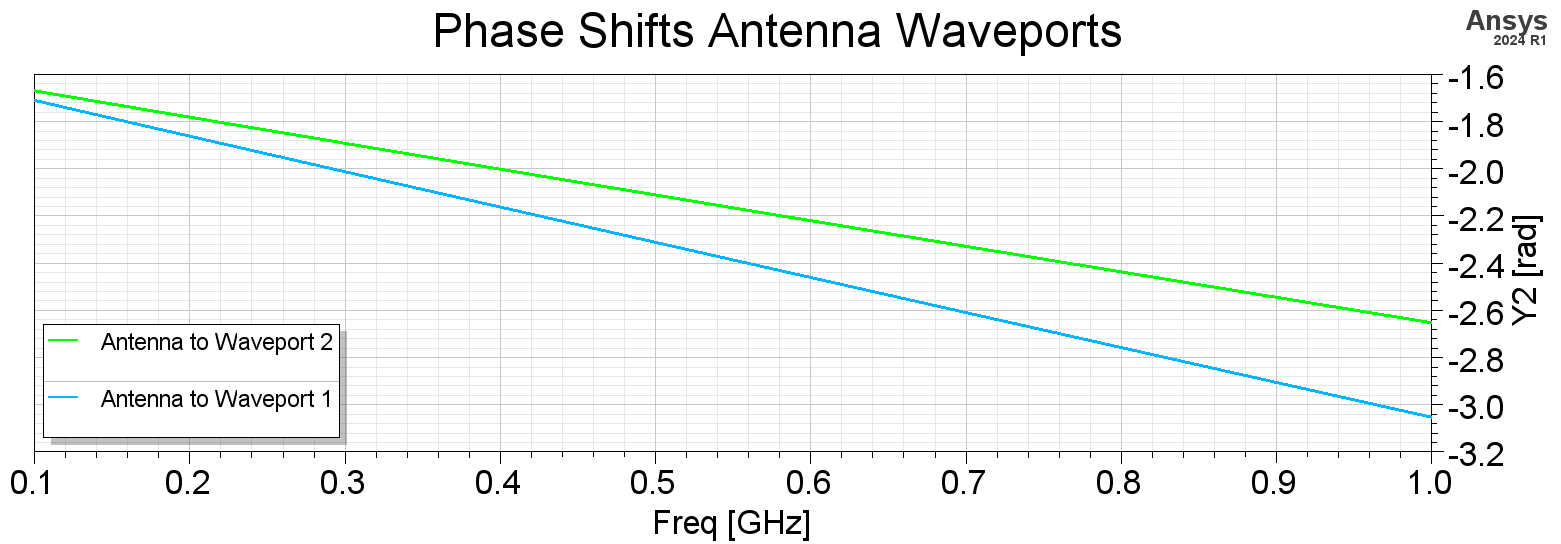
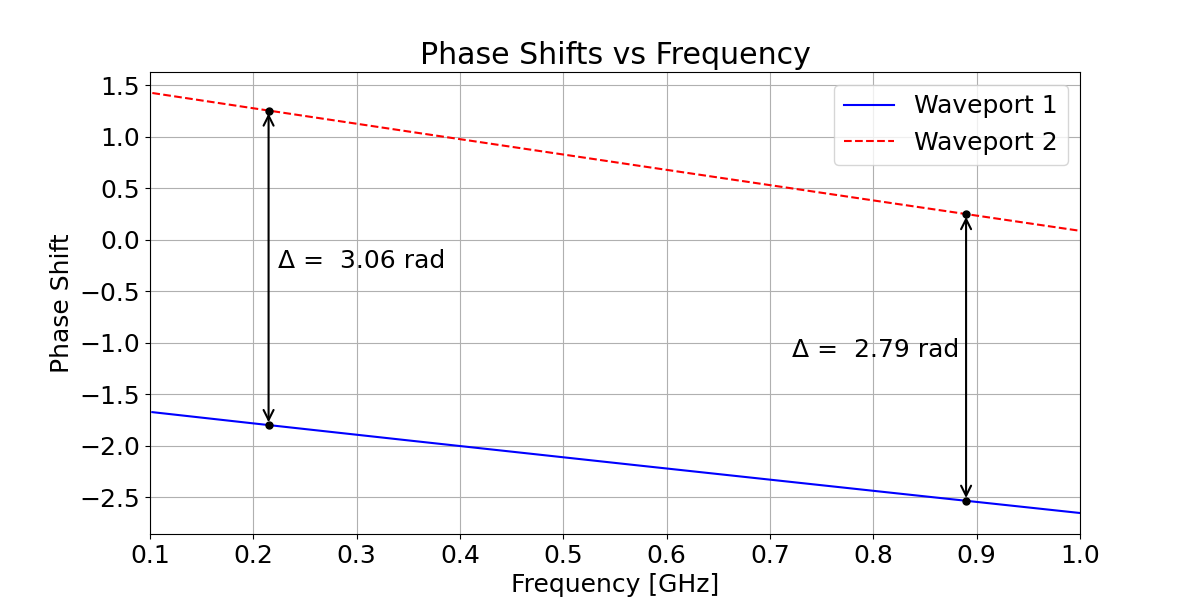
Finished documentation for CFM + Bug Fixing in Plots

Changed region(s): [[0.0, 0.0, 0.9867, 1.0], [0.925, 0.0312, 1.0, 0.0938], [0.0, 0.8438, 0.0308, 0.9062]]

diff --git a/Documentation/content/30_simulations/simulations.tex b/Documentation/content/30_simulations/simulations.tex
@@ -6,7 +6,7 @@
 
 
 
-The inverted F-antenna (IFA) is modeled in Ansys HFSS as shown in \autoref{fig:ifa}. Its material is copper. It is positioned at the center of the TEM cell, mounted at the top surface. The 5\,mm long wire points towards waveport 2. The excitation is a modal wave port. With a maximum dimension of 5\,mm, the antenna is electrically small for a frequency of up to 6\,GHz, at which it will be a tenth of the wavelength. In this simulation, the antenna is investigated for the frequency of 100\,MHz to 1\,GHz. The TEM cell has a width of 40\,mm and a height of 24\,mm. The goal is to find equivalent dipole moments. 
+The inverted F-antenna (IFA) is modeled in Ansys HFSS as shown in \autoref{fig:ifa}. Its material is copper. It is positioned at the center of the TEM cell, mounted at the top surface. The 5\,mm long wire points towards waveport 2. The excitation is a modal wave port. With a maximum dimension of 5\,mm, the antenna is electrically small for a frequency of up to 6\,GHz, at which it will be a tenth of the wavelength. In this simulation, the antenna is investigated for the frequency of 100\,MHz to 1\,GHz. The TEM cell has a width of 40\,mm and a height of 24\,mm and an impedance of $\sim50\,\Omega$. The goal is to find equivalent dipole moments of the antenna. 
 
 
 \begin{figure}[h]
@@ -16,23 +16,15 @@ The inverted F-antenna (IFA) is modeled in Ansys HFSS as shown in \autoref{fig:i
     \label{fig:ifa}
 \end{figure}
 
-The coupling between the antenna and the two ports of the TEM cell are described by S-parameters, specifically the forward transmission coefficients $S_{\mathrm{A1}}$ and $S_{\mathrm{A2}}$. \autoref{fig:antenna_waveport1_sparams} shows the magnitude of this coefficient, which is the same for the antenna to both ports. The phase shifts of $S_{\mathrm{A1}}$ and $S_{\mathrm{A2}}$ differ, which is shown in \autoref{fig:phase_shift_waveports_ifa}. This phase shift delivers important information about the equivalent dipole moments.
+The coupling between the antenna and the two ports of the TEM cell are described by S-parameters, specifically the forward transmission coefficients $S_{\mathrm{A1}}$ and $S_{\mathrm{A2}}$. \autoref{fig:antenna_waveport1_sparams} shows the magnitude of this coefficient, which is the same for the antenna to both ports ($|S_{\mathrm{A1}}|=|S_{\mathrm{A2}}|$). 
  
 
 \begin{figure}[h]
     \centering
     \includegraphics[width=1\linewidth]{Documentation//content//30_simulations//img/antenna_waveport1_sparams.png}
-    \caption{S-Parameter describing coupling of antenna to waveport 1}
+    \caption{S-parameter describing coupling of antenna to waveport 1}
     \label{fig:antenna_waveport1_sparams}
 \end{figure}
-
-\begin{figure}[h]
-    \centering
-    \includegraphics[width=1\linewidth]{Documentation//content//30_simulations//img/Phase Shift Waveports.png}
-    \caption{Phase of S-parameters from antenna to waveport 1 and 2}
-    \label{fig:phase_shift_waveports_ifa}
-\end{figure}
-
 
 \begin{equation}
     P_{\mathrm{Antenna}}=\frac{P_{\mathrm{Out1}}}{10^{|S_{\mathrm{A1}}|/10}}=\frac{P_{\mathrm{Out2}}}{10^{|S_{\mathrm{A2}}|/10}}
@@ -47,7 +39,9 @@ The coupling between the antenna and the two ports of the TEM cell are described
     \label{eqn:normalization of fields}
 \end{equation}
 
-\autoref{eqn:normalization of fields} shows that the electric field $\mathbf{e_0}$ and magnetic field $\mathbf{h_0}$ are normalized to $1\,\sqrt{\mathrm{W}}$. The surface area $A$, over which the fields are integrated, is that of the output ports of the TEM cell. The field can be linearly scaled by the coefficients $a$ and $b$, which has been described in \autoref{eqn:modal_superposition1} and \autoref{eqn:modal_superposition2}. Only one pair of such coefficients is needed, since only the TEM mode is considered. The coefficients $a$ and $b$ have the unit $\sqrt{\mathrm{W}}$. The fields $\mathbf{e_0}$ and $\mathbf{h_0}$ are not known over the whole area. However, the electric field $\mathbf{e_0}$ has only to be known at one specific point in order to determine the equivalent dipole moments, as will be shown here.
+\autoref{eqn:normalization of fields} shows that the electric field $\mathbf{e_0}$ and magnetic field $\mathbf{h_0}$ are normalized to $1\,\sqrt{\mathrm{W}}$. The surface area $A$, over which the fields are integrated, is that of the output ports of the TEM cell. The field can be linearly scaled by the complex coefficients $a$ and $b$, which has been described in \autoref{eqn:modal_superposition1} and \autoref{eqn:modal_superposition2}. Only one pair of such coefficients is needed, since only the TEM mode is considered.
+
+The coefficients $a$ and $b$ have the unit $\sqrt{\mathrm{W}}$. The fields $\mathbf{e_0}$ and $\mathbf{h_0}$ are not known over the whole area. However, the electric field $\mathbf{e_0}$ has only to be known at one specific point in order to determine the equivalent dipole moments, as will be shown here.
 
 \begin{subequations}
 \begin{equation}
@@ -61,7 +55,17 @@ The coupling between the antenna and the two ports of the TEM cell are described
 \end{subequations}
 \todo{linear relation Power to b, a}
 
-The output power of each port is then derived through \autoref{eqn:power_of_poynting1} and \autoref{eqn:power_of_poynting2}. So if $a=b=1$, then the electric field $\mathbf{e_0}$ may be measured, when the output power at one port is $\frac{1}{2}\,\mathrm{W}$. Because it is assumed that the TEM cell contains only waves in the TEM mode, the normalization of the electric and magnetic fields can be used to simplify the calculations.
+
+The phase shifts of $S_{\mathrm{A1}}$ and $S_{\mathrm{A2}}$ differ, which is shown in \autoref{fig:phase_shift_waveports_ifa}. The difference of these phase shifts influences the quantity of magnetic dipole moment and electric dipole moments. A large phase shift indicated a large magnetic dipole moments compared to the electric dipole moment, and vice versa. The large difference in phase shifts in \autoref{fig:phase_shift_waveports_ifa} lets one expect the first case. However, the phase shift does not influence the overall output power. It is incorporated into the coefficients $a$ and $b$, by multiplying the term $e^{\mathrm{i}\varphi_{a}}$ or $e^{\mathrm{i}\varphi_{b}}$ to their magnitude. The phase shift of each port is then implemented by $\varphi_{a}$ at the port of the coefficient $a$, and by $\varphi_{b}$ at the port of the coefficient $b$. 
+
+\begin{figure}[h]
+    \centering
+    \includegraphics[width=1\linewidth]{Documentation//content//30_simulations//img/Phase Shift Waveports.png}
+    \caption{Phase of S-parameters from antenna to waveport 1 and 2}
+    \label{fig:phase_shift_waveports_ifa}
+\end{figure}
+
+The output power of each port is then derived through \autoref{eqn:power_of_poynting1} and \autoref{eqn:power_of_poynting2}. So if $|a|=|b|=1$, then the electric field $\mathbf{e_0}$ may be measured, when the output power at one port is $\frac{1}{2}\,\mathrm{W}$. Because it is assumed that the TEM cell contains only waves in the TEM mode, the normalization of the electric and magnetic fields can be used to simplify the calculations.
 
 \begin{equation}
     \mathbf{e_0}\times\mathbf{h_0}=\Re\{\mathbf{e_0}\times\mathbf{h_0}^*\} \quad\text{for TEM mode}
@@ -101,7 +105,7 @@ Using \autoref{eqn:magn_current_curr_loop} the magnetic dipole moment can be exp
     \label{eqn:m_mymag_ifa}
 \end{equation}
 
-The antenna may then be replaced with those two dipole excitations in the center of the upper half of the TEM cell. The magnitude and phase of the fields, as well as the output powers, should remain the same as in the case with the antenna. 
+The antenna may then be replaced with those two dipole excitations in the center of the upper half of the TEM cell. The magnitude and phase of the fields, as well as the output powers, should remain the same as in the case with the antenna. The phase shift may be determined by measuring the phase shifts of the electric fields at both output ports. When applying this described method in a measurement with a real TEM cell, the phase shift may be found by adding and subtracting the output powers of both ports, as is shown in \cite{Sreenivasiah_Chang_Ma_1981}.
 
 \begin{figure}[h]
     \centering
@@ -112,10 +116,10 @@ The antenna may then be replaced with those two dipole excitations in the center
 
 \autoref{fig:dipole_moments_over_freq_ifa} shows the dipole moments over frequency. The electric dipole moment $m_e$ has been normalized to the free-space wave impedance of $377\,\Omega$ to make the dipole moments comparable. The antenna input power has been set to 142588.47\,W, because this leads to an output power of 1\,W at a frequency of 1\,GHz. The magnetic dipole moment is much larger than the electric dipole moment, because the current loop of the antenna is aligned with the TEM cell's magnetic fields, but the line current is not with the TEM electric fields. The magnetic dipole moments rises linearly with the frequency, which is equal to a quadratic increase of power. Only the TEM modes has been considered in the simulation, as other modes disturb the calculations. 
 
-The electric field $\mathbf{e_0}$ is approximated with \autoref{eqn:ifa_e_field_approx} for the purpose of interpolation over frequencies and analytical analysis. \autoref{fig:output_power_e_fields_over_freq_ifa} shows the resulting plot. If any other output power over frequency curves are desired, the formula may easily be modified by considering the quadratic relationship between the electric field and the output power.
+The electric field $\mathbf{e_0}$ is approximated with \autoref{eqn:ifa_e_field_approx} for the purpose of interpolation over frequencies and analytical analysis. The constant $u$ is a scaling factor, which must be adjusted to fit the real electric field values. In this case, this constant equals $u=820.34$. The left-hand side term $|a|\cdot e_{0,z}$ is the overall electric field at the measurement point according to \autoref{eqn:modal_superposition1}. \autoref{fig:output_power_e_fields_over_freq_ifa} shows the resulting plot. 
 
 \begin{equation}
-    a\cdot\mathbf{e_0}=\frac{\sqrt{P_\mathrm{Out}}}{0.0012194}\,\mathrm{\frac{V}{m\sqrt{W}}}
+    |a|\cdot e_{0,z}=2P_\mathrm{Out}\cdot e_{0,z}=u\sqrt{P_\mathrm{Out}}\,\mathrm{\frac{V}{m\cdot\sqrt{W}}}
     \label{eqn:ifa_e_field_approx}
 \end{equation}
 
@@ -126,7 +130,16 @@ The electric field $\mathbf{e_0}$ is approximated with \autoref{eqn:ifa_e_field_
     \label{fig:output_power_e_fields_over_freq_ifa}
 \end{figure}
 
+The electric field can also be approximated by \autoref{eqn:e_field_at_one_point}, where $b/2=12\,\mathrm{mm}$ is half the height and $Z_\mathrm{W}\approx50\,\Omega$ is the impedance of the TEM cell. This works for TEM cells with thin septum. The constant $u$ can be adjusted to fit this equation. The term $\sqrt{2}$ is needed to convert the effective value of the electric field into its magnitude.
+
+\begin{equation}
+    |a|\cdot e_{\mathrm{0,z}}=\frac{\sqrt{2\cdot P_\mathrm{Out}\cdot Z_\mathrm{W}}}{b/2}
+    \label{eqn:e_field_at_one_point}
+\end{equation}
+
 \subsection{Center Fed Monopole Antenna}
+
+The center fed monopole antenna is shown in \autoref{fig:center_fed_monopole}. The conducting plane in \autoref{fig:center_fed_monopole} is on the top side of the TEM cell, thus the image is rotated counter-clockwise by 90 degrees. The antenna is fed with a power of $P_\mathrm{Antenna}=127770.39\,\mathrm{W}$, which again leads to an output power of $P_\mathrm{Out}=1\,\mathrm{W}$ at 1\,GHz at both ports. 
 
 \begin{figure}[h]
     \centering
@@ -135,9 +148,38 @@ The electric field $\mathbf{e_0}$ is approximated with \autoref{eqn:ifa_e_field_
     \label{fig:center_fed_monopole}
 \end{figure}
 
+\begin{figure}[h]
+    \centering
+    \includegraphics[width=1\linewidth]{Documentation//content//30_simulations//img/forward_coeff_cfm.png}
+    \caption{S-parameter describing coupling of antenna to waveport 1}
+    \label{fig:orward_coeff_cfm}
+\end{figure}
+
+The phase shift in \autoref{fig:phase_shift_cfm} is smaller than in the simulation with the inverted F antenna. This hints to a more influential electric dipole moment than before. 
+
+\begin{figure}[h]
+    \centering
+    \includegraphics[width=1\linewidth]{Documentation//content//30_simulations//img/phase_shift_cfm.png}
+    \caption{Phase of S-parameters from antenna to waveport 1 and 2}
+    \label{fig:phase_shift_cfm}
+\end{figure}
+
+\autoref{fig:dipole_moment_cfm} shows that the magnetic dipole moments of the inverted F and center fed monopole antennas are equal. This is due to the same size of the current loops. However, the electric dipole moments increased for the center fed monopole antenna. The alignment of the line current with the TEM cell's electric field causes this.
+
+\begin{figure}[h]
+    \centering
+    \includegraphics[width=1\linewidth]{Documentation//content//30_simulations//img/dipole_moment_cfm.png}
+    \caption{Dipole moments over frequency}
+    \label{fig:dipole_moment_cfm}
+\end{figure}
 
 
-
+\begin{figure}[h]
+    \centering
+    \includegraphics[width=1\linewidth]{Documentation//content//30_simulations//img/e_field_power_cfd.png}
+    \caption{Output power and electric field over frequency}
+    \label{fig:e_field_power_cfd}
+\end{figure}
 
 
 \subsection{Offset of source antennas and eddy currents}
